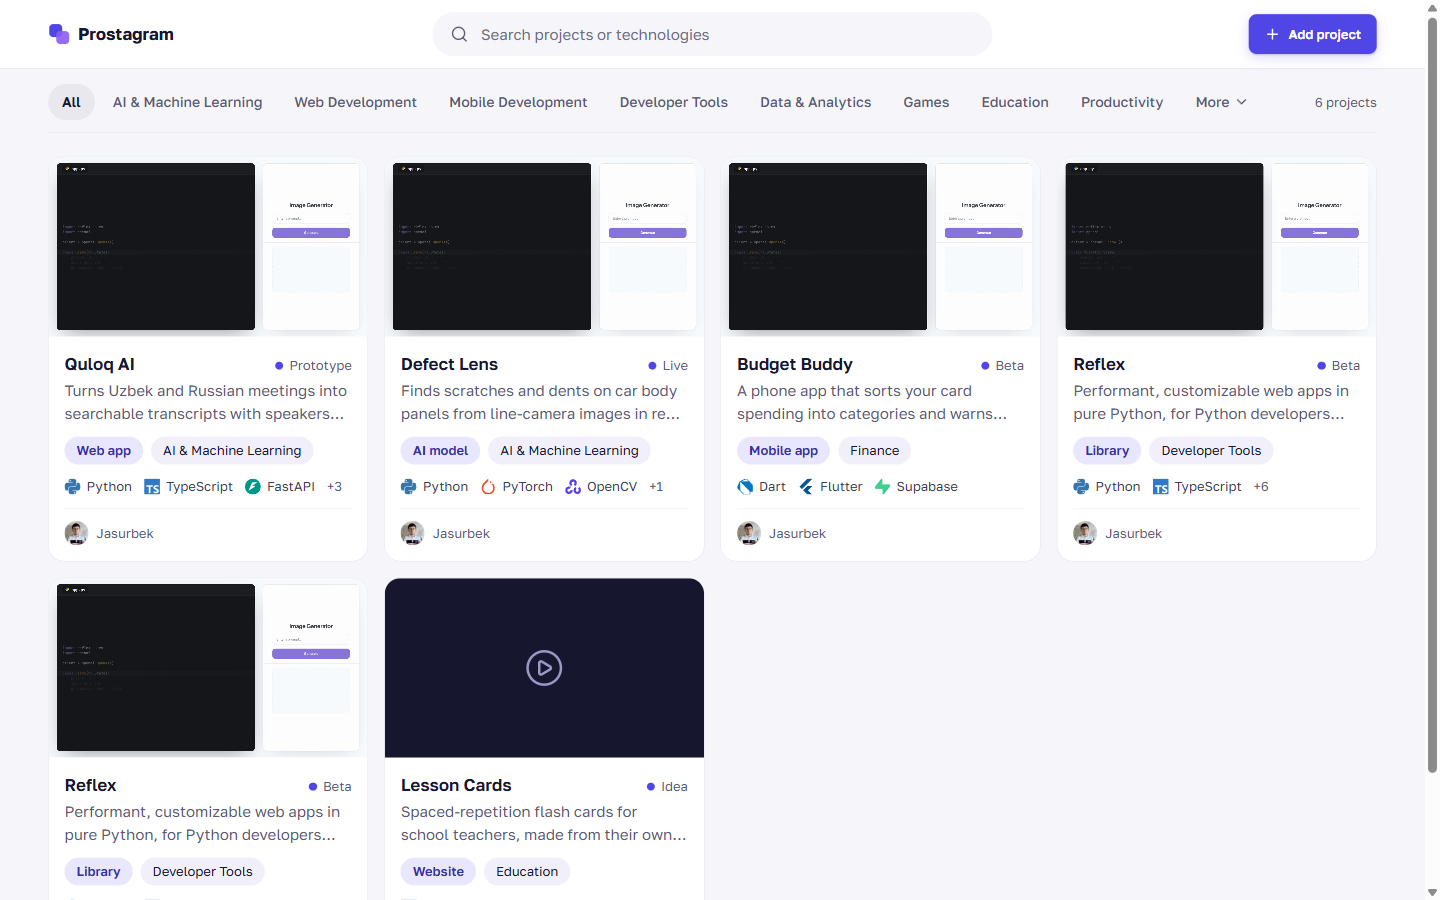
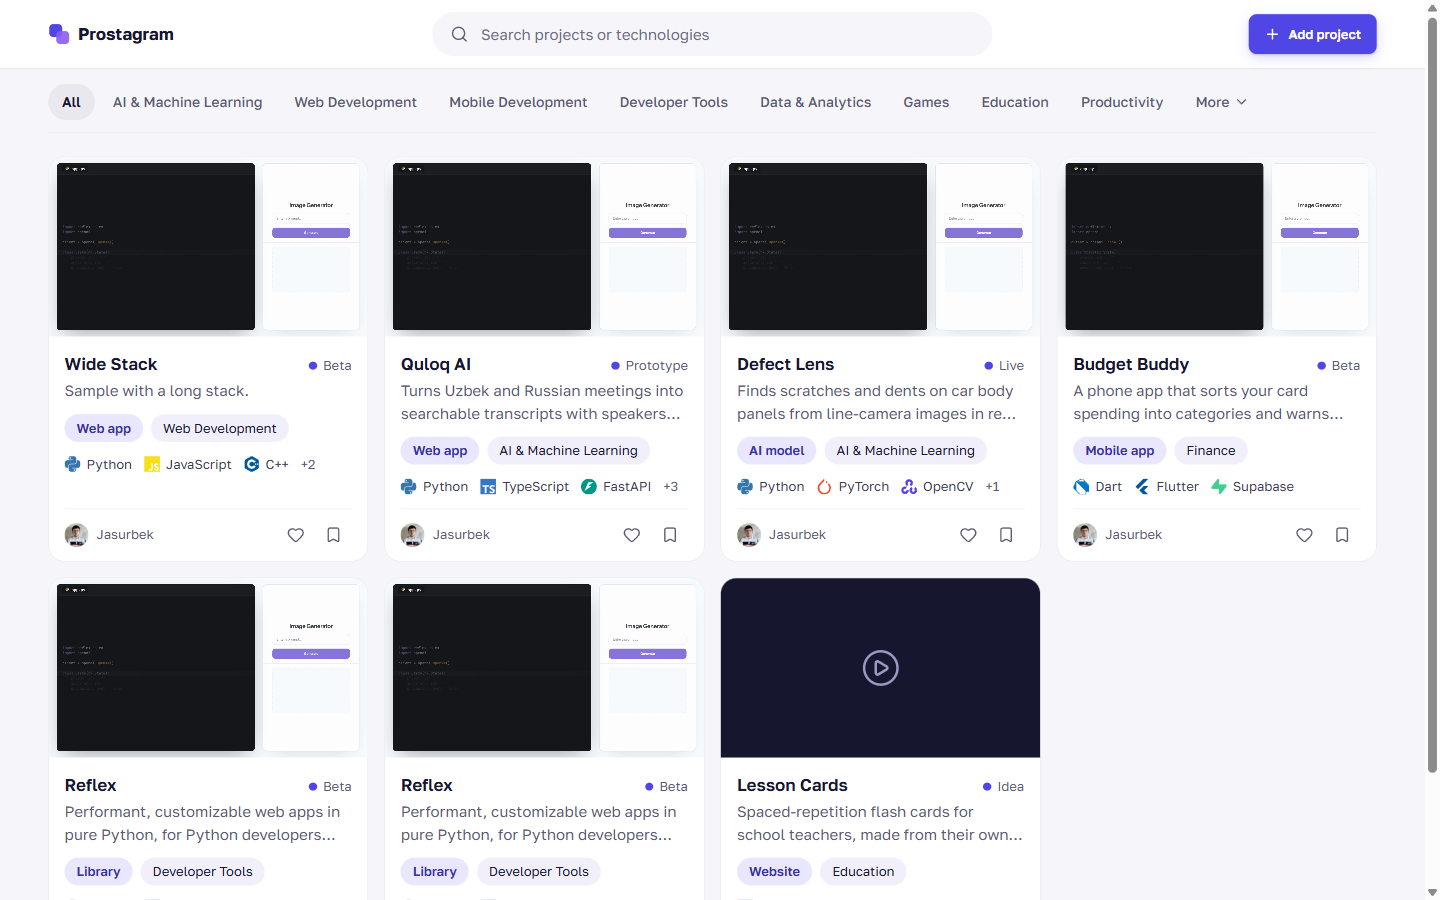
feat(frontend): Like and Save on feed cards; no project count, no Copy link
Feed cards get Like and Save buttons in their footer (outline heart and bookmark; they do nothing
yet, until accounts exist). The feed no longer shows the project count, and the project page
header no longer has Copy link.

diff --git a/frontend/src/components/feed/feed.tsx b/frontend/src/components/feed/feed.tsx
@@ -1,4 +1,4 @@
-import { ChevronDown, CirclePlay, Plus, Search } from "lucide-react";
+import { Bookmark, ChevronDown, CirclePlay, Heart, Plus, Search } from "lucide-react";
 import Image from "next/image";
 import Link from "next/link";
 import { card, Chip, TypeBadge } from "@/components/page/parts";
@@ -58,7 +58,7 @@ export function FeedHeader({ category = "", q = "" }: { category?: string; q?: s
 const IN_ROW = 8;
 
 /** Category tabs in one row: plain text, the chosen one on a soft background; the rest under "More". */
-export function FeedToolbar({ catalog, category, q, count }: { catalog: Catalog; category: string; q: string; count: number }) {
+export function FeedToolbar({ catalog, category, q }: { catalog: Catalog; category: string; q: string }) {
   const href = (next: string) => {
     const query = new URLSearchParams();
     if (next) query.set("category", next);
@@ -117,10 +117,6 @@ export function FeedToolbar({ catalog, category, q, count }: { catalog: Catalog;
           )}
         </ul>
       </nav>
-      <p className="shrink-0 text-[13px] text-muted max-desk:hidden">
-        {count} {count === 1 ? "project" : "projects"}
-        {q ? ` for “${q}”` : ""}
-      </p>
     </div>
   );
 }
@@ -129,11 +125,13 @@ export function FeedToolbar({ catalog, category, q, count }: { catalog: Catalog;
 export function ProjectCardView({ project, catalog }: { project: ProjectCard; catalog: Catalog }) {
   const icons = new Map(catalog.tech.map((t) => [t.name, t.icon]));
   const stack = [...project.languages, ...project.tools].map((name) => ({ name, icon: icons.get(name) ?? null }));
+  // The card is a box: its top part is the link to the page, its footer holds the author and the
+  // Like and Save buttons (a button cannot sit inside a link).
   return (
-    <li className="min-w-0">
+    <li className={`${card} group flex min-w-0 flex-col overflow-hidden transition-shadow hover:shadow-[0_12px_32px_-16px_rgba(23,22,47,0.28)]`}>
       <Link
         href={`/projects/${project.slug}`}
-        className={`${card} group flex h-full flex-col overflow-hidden outline-none transition-shadow hover:shadow-[0_12px_32px_-16px_rgba(23,22,47,0.28)] focus-visible:outline-2 focus-visible:outline-offset-2 focus-visible:outline-primary`}
+        className="flex flex-1 flex-col outline-none focus-visible:outline-2 focus-visible:-outline-offset-2 focus-visible:outline-primary"
       >
         <div className="relative aspect-video overflow-hidden bg-[#17162f]">
           {project.poster_url ? (
@@ -151,7 +149,7 @@ export function ProjectCardView({ project, catalog }: { project: ProjectCard; ca
             </span>
           )}
         </div>
-        <div className="flex flex-1 flex-col gap-[12px] p-[16px]">
+        <div className="flex flex-1 flex-col gap-[12px] p-[16px] pb-[12px]">
           <div className="flex flex-col gap-[4px]">
             <div className="flex items-start justify-between gap-[12px]">
               <h2 className="min-w-0 text-h font-semibold leading-[1.3] [overflow-wrap:anywhere]">{project.name}</h2>
@@ -169,13 +167,36 @@ export function ProjectCardView({ project, catalog }: { project: ProjectCard; ca
             {project.category && <Chip>{labelOf(catalog.categories, project.category)}</Chip>}
           </div>
           {stack.length > 0 && <StackLine items={stack} />}
-          <p className="mt-auto flex items-center gap-[8px] border-t border-line pt-[12px] text-cap text-muted">
-            <Image src={AUTHOR.photo} alt="" width={24} height={24} className="h-[24px] w-[24px] rounded-full object-cover" />
-            {AUTHOR.name}
-          </p>
         </div>
       </Link>
+      <div className="mx-[16px] flex items-center justify-between gap-[8px] border-t border-line py-[8px]">
+        <p className="flex items-center gap-[8px] text-cap text-muted">
+          <Image src={AUTHOR.photo} alt="" width={24} height={24} className="h-[24px] w-[24px] rounded-full object-cover" />
+          {AUTHOR.name}
+        </p>
+        <CardActions name={project.name ?? "this project"} />
+      </div>
     </li>
+  );
+}
+
+/**
+ * Like and Save. They only show for now (Bek, 2026-11-25): pressing them changes nothing until accounts
+ * exist. Thin outline icons, like the rest of the page; 36px targets, 44px on a phone.
+ */
+function CardActions({ name }: { name: string }) {
+  const button =
+    "tap relative inline-flex h-[36px] w-[36px] items-center justify-center rounded-full text-muted outline-none transition-colors " +
+    "hover:bg-page hover:text-ink focus-visible:outline-2 focus-visible:outline-primary";
+  return (
+    <div className="flex items-center gap-[2px]">
+      <button type="button" aria-label={`Like ${name}`} aria-pressed="false" className={button}>
+        <Heart size={18} strokeWidth={1.8} aria-hidden="true" />
+      </button>
+      <button type="button" aria-label={`Save ${name}`} aria-pressed="false" className={button}>
+        <Bookmark size={18} strokeWidth={1.8} aria-hidden="true" />
+      </button>
+    </div>
   );
 }
 

diff --git a/frontend/src/components/project/sections.tsx b/frontend/src/components/project/sections.tsx
@@ -25,7 +25,6 @@ import type { Catalog, Project } from "@/lib/api";
 import { AUTHOR } from "@/lib/author";
 import { labelOf, techRows, timeline } from "@/lib/catalog";
 import { ClampText } from "./clamp-text";
-import { CopyLinkButton } from "./copy-link";
 import { DemoVideo } from "./demo-player";
 
 // The project page "D7" (decision D29): on the left the name card, the facts, Built with and the
@@ -43,7 +42,6 @@ export function SiteHeader() {
           <LogoMark />
           Prostagram
         </Link>
-        <CopyLinkButton />
       </div>
     </header>
   );

diff --git a/frontend/src/app/page.tsx b/frontend/src/app/page.tsx
@@ -29,7 +29,7 @@ async function Feed({ searchParams }: { searchParams: PageProps<"/">["searchPara
       <FeedHeader category={category} q={q} />
       <main className="mx-auto flex max-w-[1920px] flex-col gap-[24px] px-[16px] pb-[48px] pt-[16px] sm:px-[48px]">
         <h1 className="sr-only">Projects</h1>
-        <FeedToolbar catalog={catalog} category={category} q={q} count={projects.length} />
+        <FeedToolbar catalog={catalog} category={category} q={q} />
         {projects.length === 0 ? (
           <FeedEmpty filtered={!!(category || q)} />
         ) : (
